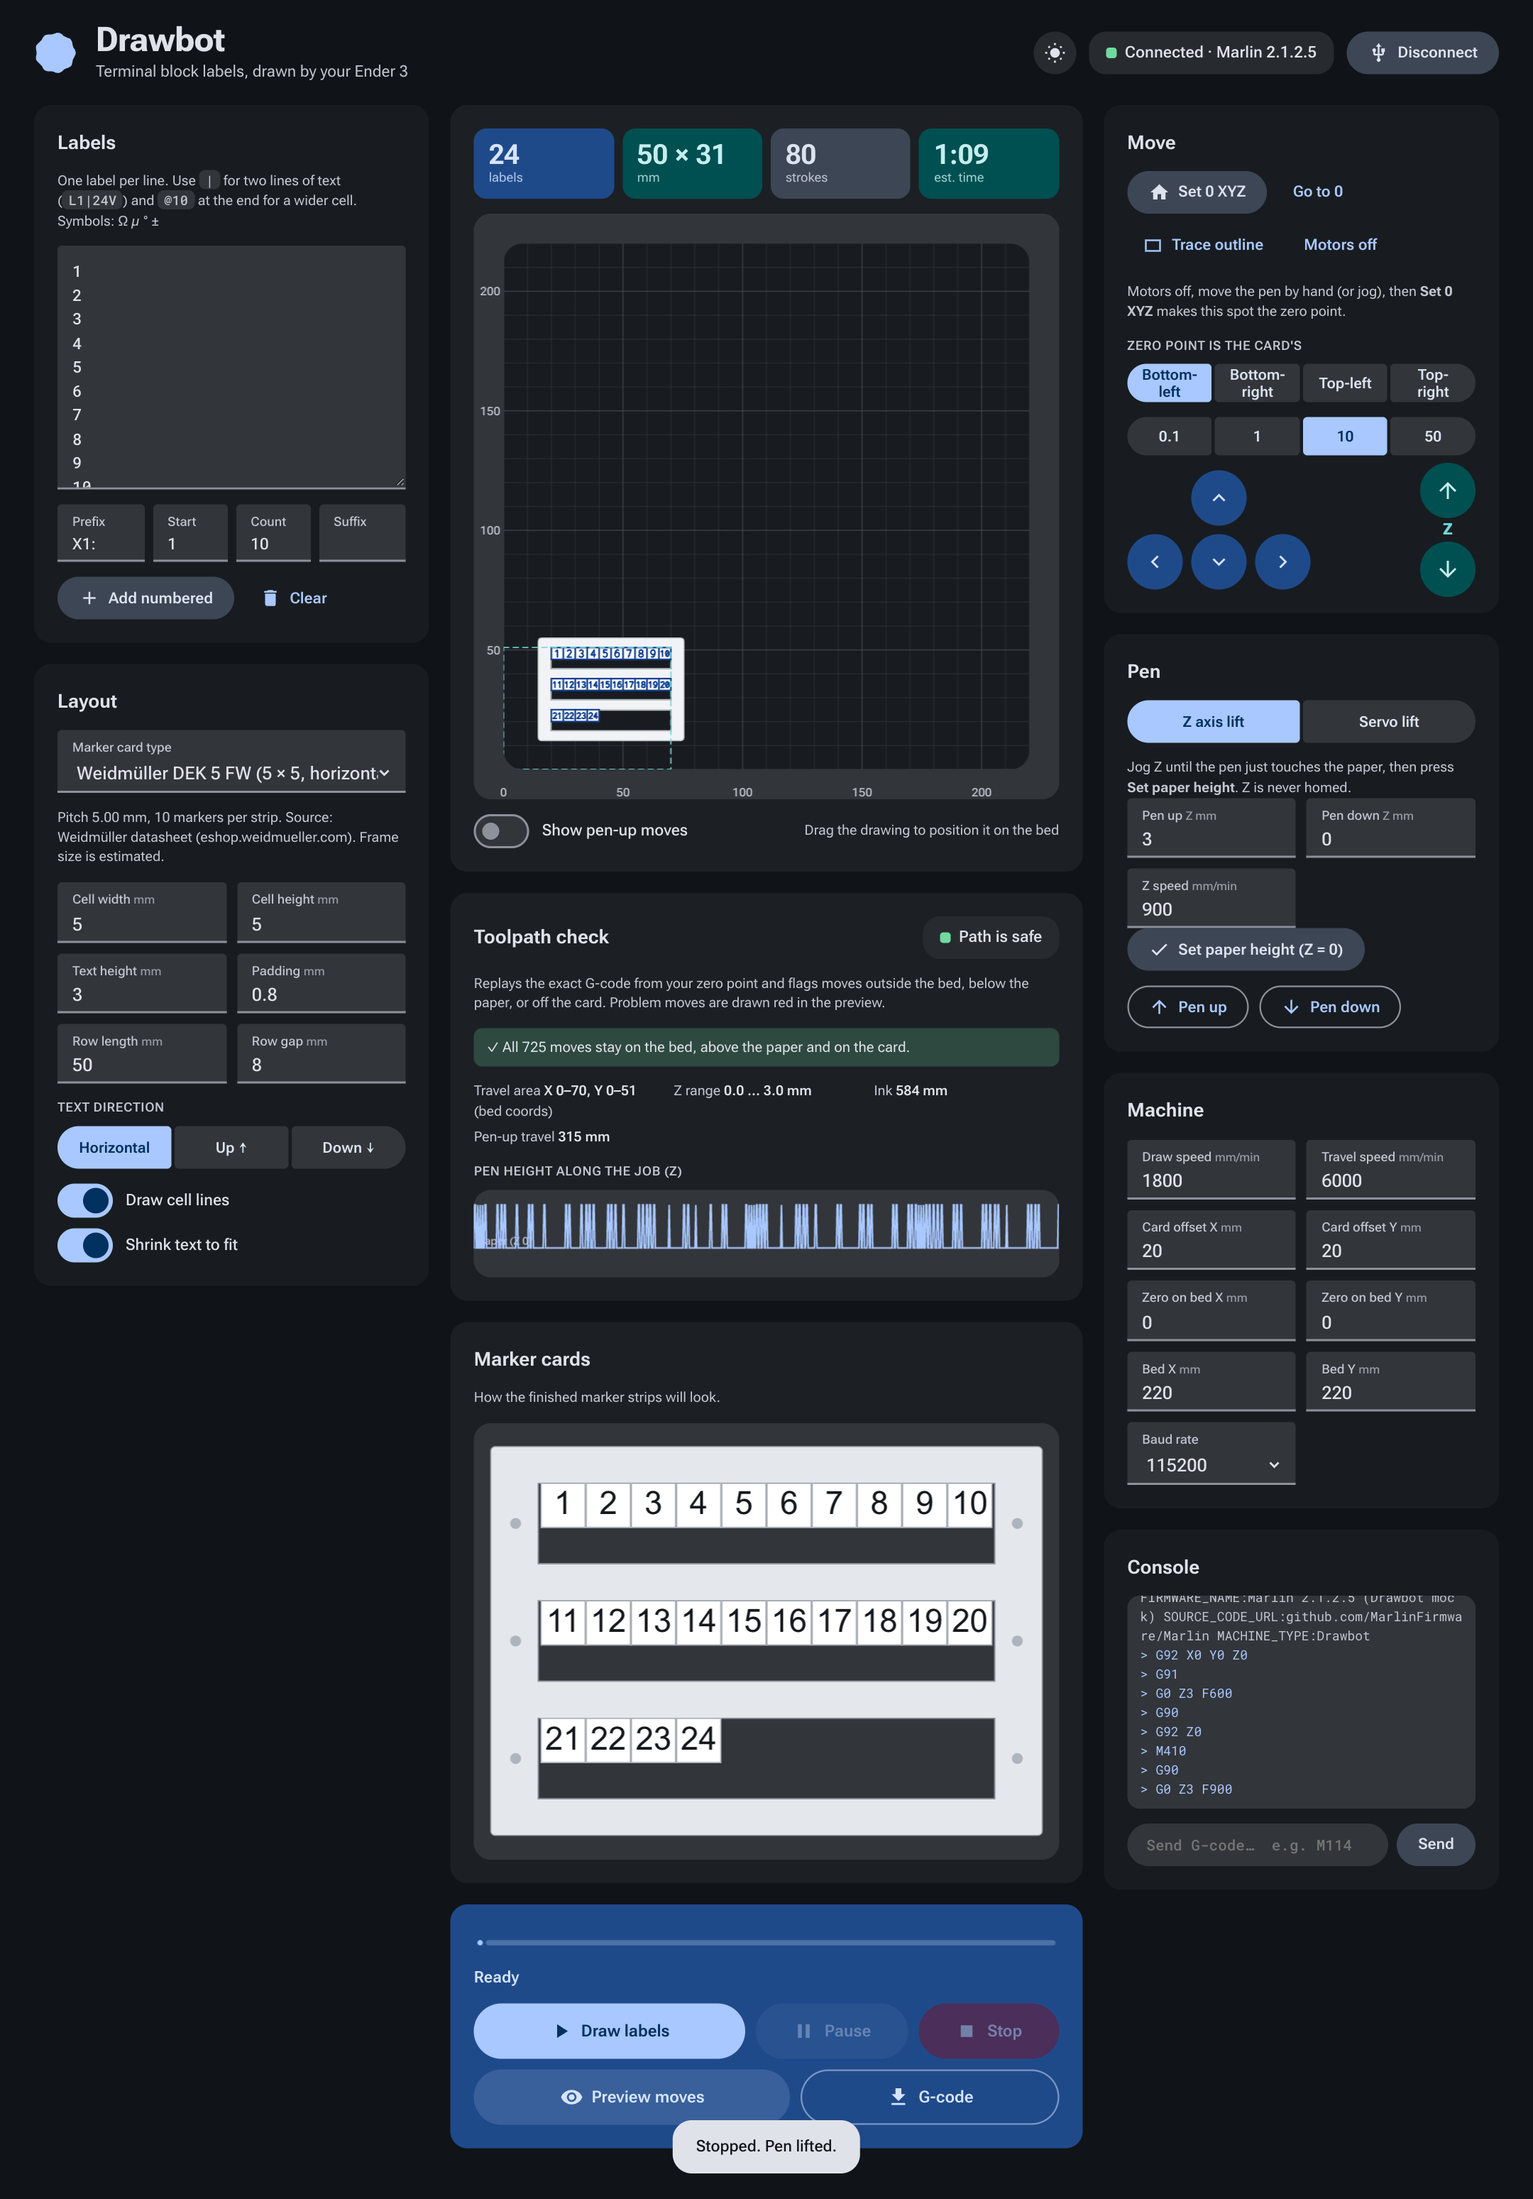
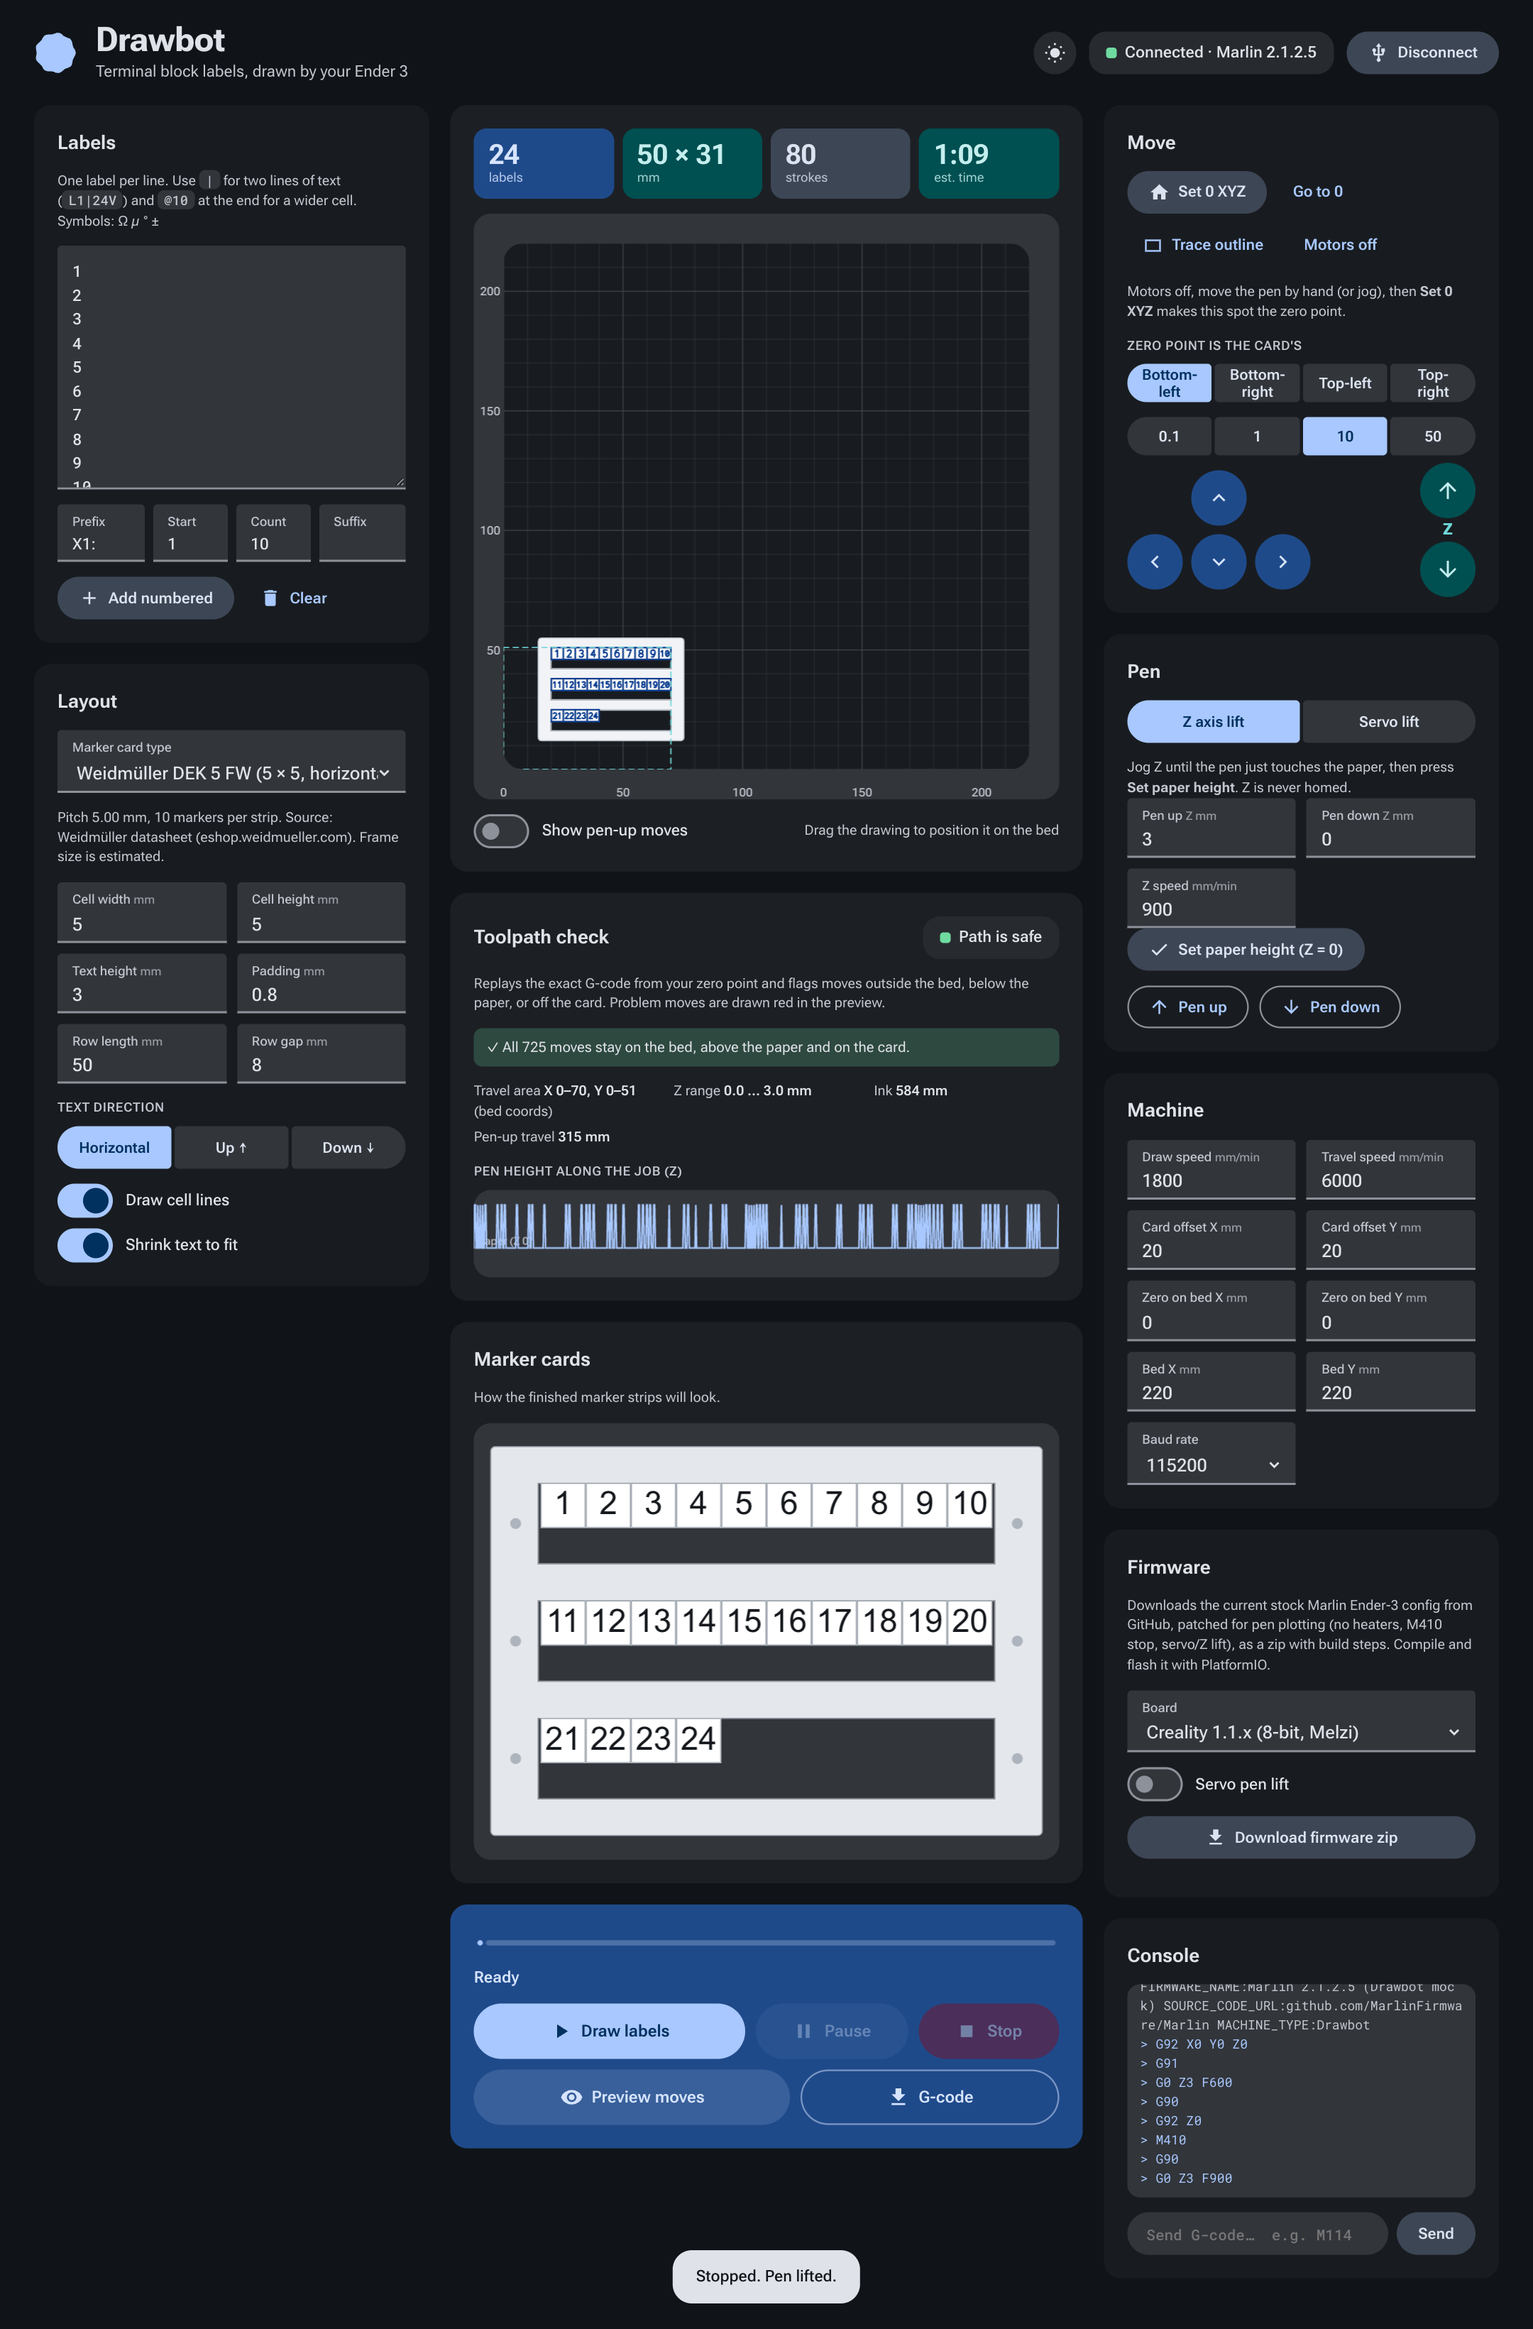
Firmware zip download (fetches current Marlin config, patches in browser), Vercel config

diff --git a/web/firmware.js b/web/firmware.js
@@ -1,0 +1,84 @@
+/* Firmware download: fetches the current stock Marlin Ender-3 config from GitHub, applies the Drawbot patch
+   (same changes as firmware/apply_drawbot.py) and hands back a zip. Nothing is uploaded anywhere. */
+(function (g) {
+  const BASE = 'https://raw.githubusercontent.com/MarlinFirmware/Configurations/bugfix-2.1.x/config/examples/Creality/Ender-3/';
+  const BOARDS = {
+    CrealityV1: 'Creality 1.1.x (8-bit, Melzi)',
+    CrealityV422: 'Creality 4.2.2 (32-bit)',
+    CrealityV427: 'Creality 4.2.7 (32-bit)',
+  };
+
+  function patch(cfg, adv, { servo = true } = {}) {
+    const report = [];
+    const sub = (text, re, repl, name) => { const n = re.test(text); report.push((n ? 'ok   ' : 'MISS ') + name); return n ? text.replace(re, repl) : text; };
+    let c = cfg, a = adv;
+    c = sub(c, /^#define TEMP_SENSOR_0 .*$/m, '#define TEMP_SENSOR_0 0 // Drawbot: no hotend', 'TEMP_SENSOR_0 -> 0');
+    c = sub(c, /^#define TEMP_SENSOR_BED .*$/m, '#define TEMP_SENSOR_BED 0 // Drawbot: no heated bed', 'TEMP_SENSOR_BED -> 0');
+    c = sub(c, /^#define THERMAL_PROTECTION_HOTENDS.*$/m, '//#define THERMAL_PROTECTION_HOTENDS // Drawbot', 'THERMAL_PROTECTION_HOTENDS off');
+    c = sub(c, /^#define THERMAL_PROTECTION_BED.*$/m, '//#define THERMAL_PROTECTION_BED // Drawbot', 'THERMAL_PROTECTION_BED off');
+    c = sub(c, /^#define PREVENT_COLD_EXTRUSION/m, '//#define PREVENT_COLD_EXTRUSION // Drawbot', 'PREVENT_COLD_EXTRUSION off');
+    c = sub(c, /^#define CUSTOM_MACHINE_NAME .*$/m, '#define CUSTOM_MACHINE_NAME "Drawbot"', 'machine name');
+    c = sub(c, /^#define DEFAULT_MAX_FEEDRATE\s+\{.*\}/m, '#define DEFAULT_MAX_FEEDRATE          { 500, 500, 20, 25 }', 'max feedrate Z 5 -> 20 mm/s');
+    c = sub(c, /^#define DEFAULT_MAX_ACCELERATION\s+\{.*\}/m, '#define DEFAULT_MAX_ACCELERATION      { 800, 800, 200, 5000 }', 'max accel XY 800, Z 200');
+    c = sub(c, /^#define DEFAULT_ACCELERATION\s+\d+.*$/m, '#define DEFAULT_ACCELERATION          800    // X, Y, Z acceleration for printing moves', 'default accel');
+    c = sub(c, /^#define DEFAULT_TRAVEL_ACCELERATION\s+\d+.*$/m, '#define DEFAULT_TRAVEL_ACCELERATION   1200   // X, Y, Z acceleration for travel (non printing) moves', 'travel accel');
+    c = sub(c, /^\s*#define MIN_SOFTWARE_ENDSTOP_Z\b.*$/m, '  //#define MIN_SOFTWARE_ENDSTOP_Z // Drawbot: pen height set with G92 Z0', 'Z min soft endstop off');
+    if (servo) {
+      c = sub(c, /^\/\/#define NUM_SERVOS 3.*$/m, '#define NUM_SERVOS 1 // Drawbot: pen-lift servo is M280 P0', 'NUM_SERVOS 1');
+      c = sub(c, /^#define SERVO_DELAY \{.*\}/m, '#define SERVO_DELAY { 150 }', 'SERVO_DELAY 150');
+      const board = c.match(/^\s*#define MOTHERBOARD (\w+)/m);
+      if (board && board[1] === 'BOARD_MELZI_CREALITY' && !c.includes('SERVO0_PIN')) {
+        c = c.replace('#define NUM_SERVOS 1', '#define SERVO0_PIN 27 // Drawbot: BLTouch header signal pin on 1.1.x board\n#define NUM_SERVOS 1');
+        report.push('ok   SERVO0_PIN 27 (1.1.x board)');
+      }
+    }
+    a = sub(a, /^\/\/#define EMERGENCY_PARSER/m, '#define EMERGENCY_PARSER // Drawbot: M410 quick-stop', 'EMERGENCY_PARSER on');
+    return { cfg: c, adv: a, report };
+  }
+
+  // ---- minimal store-only zip ----
+  const crcT = (() => { const t = []; for (let n = 0; n < 256; n++) { let c = n; for (let k = 0; k < 8; k++) c = c & 1 ? 0xEDB88320 ^ (c >>> 1) : c >>> 1; t[n] = c >>> 0; } return t; })();
+  const crc32 = u8 => { let c = 0xFFFFFFFF; for (let i = 0; i < u8.length; i++) c = crcT[(c ^ u8[i]) & 255] ^ (c >>> 8); return (c ^ 0xFFFFFFFF) >>> 0; };
+  function zip(files) {                           // files: [{name, data: string}]
+    const enc = new TextEncoder(), parts = [], central = []; let off = 0;
+    const d = new Date(), dt = ((d.getFullYear() - 1980) << 9 | (d.getMonth() + 1) << 5 | d.getDate()) & 0xFFFF, tm = (d.getHours() << 11 | d.getMinutes() << 5 | d.getSeconds() >> 1) & 0xFFFF;
+    for (const f of files) {
+      const name = enc.encode(f.name), data = enc.encode(f.data), crc = crc32(data);
+      const lh = new DataView(new ArrayBuffer(30)); lh.setUint32(0, 0x04034b50, true); lh.setUint16(4, 20, true); lh.setUint16(6, 0x0800, true); lh.setUint16(8, 0, true);
+      lh.setUint16(10, tm, true); lh.setUint16(12, dt, true); lh.setUint32(14, crc, true); lh.setUint32(18, data.length, true); lh.setUint32(22, data.length, true); lh.setUint16(26, name.length, true);
+      parts.push(new Uint8Array(lh.buffer), name, data);
+      const ch = new DataView(new ArrayBuffer(46)); ch.setUint32(0, 0x02014b50, true); ch.setUint16(4, 20, true); ch.setUint16(6, 20, true); ch.setUint16(8, 0x0800, true);
+      ch.setUint16(12, tm, true); ch.setUint16(14, dt, true); ch.setUint32(16, crc, true); ch.setUint32(20, data.length, true); ch.setUint32(24, data.length, true); ch.setUint16(28, name.length, true); ch.setUint32(42, off, true);
+      central.push(new Uint8Array(ch.buffer), name);
+      off += 30 + name.length + data.length;
+    }
+    const csize = central.reduce((s, p) => s + p.length, 0);
+    const end = new DataView(new ArrayBuffer(22)); end.setUint32(0, 0x06054b50, true); end.setUint16(8, files.length, true); end.setUint16(10, files.length, true); end.setUint32(12, csize, true); end.setUint32(16, off, true);
+    return new Blob([...parts, ...central, new Uint8Array(end.buffer)], { type: 'application/zip' });
+  }
+
+  async function fetchText(url) { const r = await fetch(url, { cache: 'no-cache' }); if (!r.ok) throw new Error(`GitHub returned ${r.status} for ${url.split('/').slice(-2).join('/')}`); return r.text(); }
+
+  /** Downloads the stock configs for `board`, patches them, returns {blob, report, filename}. */
+  async function build(board, servo) {
+    const [c, a] = await Promise.all([fetchText(BASE + board + '/Configuration.h'), fetchText(BASE + board + '/Configuration_adv.h')]);
+    const p = patch(c, a, { servo });
+    const readme = `Drawbot firmware (${BOARDS[board] || board}${servo ? ', servo pen lift' : ', Z-axis pen lift'})
+Generated ${new Date().toISOString().slice(0, 10)} from the current MarlinFirmware/Configurations bugfix-2.1.x stock Ender-3 config.
+
+Changes made (also see https://github.com/douggreenak/drawbot):
+${p.report.map(l => '  ' + l).join('\n')}
+
+To build and flash:
+ 1. Get Marlin 2.1.x: https://github.com/MarlinFirmware/Marlin (branch bugfix-2.1.x)
+ 2. Copy Marlin/Configuration.h and Marlin/Configuration_adv.h from this zip over the ones in Marlin/Marlin/
+ 3. Open the Marlin folder in VS Code with PlatformIO, pick the env for your board (melzi for 1.1.x, STM32F103RET6_creality for 4.2.x), Build, then Upload (or copy the .bin to an SD card for 4.2.x boards).
+ 4. Not compiled or tested on hardware by this tool - check the build output.
+ 5. On 4.2.x boards, if the build complains about a missing sensor, set TEMP_SENSOR_0 to 998.
+`;
+    const blob = zip([{ name: 'Marlin/Configuration.h', data: p.cfg }, { name: 'Marlin/Configuration_adv.h', data: p.adv }, { name: 'README.txt', data: readme }]);
+    return { blob, report: p.report, filename: `drawbot-firmware-${board}${servo ? '-servo' : ''}.zip` };
+  }
+
+  g.DBFirmware = { BOARDS, patch, zip, build };
+})(typeof window !== 'undefined' ? window : globalThis);

diff --git a/web/app.js b/web/app.js
@@ -554,6 +554,19 @@
   ['cellW', 'cellH'].forEach(id => $(id).addEventListener('input', () => { $('cardType').value = 'custom'; $('cardNote').textContent = 'Enter your own cell size below.'; }));
   Object.keys(SEGS).forEach(id => setSeg(id, segVal(id)));
   relayout(); kickWave();
+  // ---------------------------------------------------------------- firmware download
+  $('fwBoard').innerHTML = Object.entries(window.DBFirmware.BOARDS).map(([k, v]) => `<option value="${k}">${v}</option>`).join('');
+  $('btnFirmware').onclick = async () => {
+    const btn = $('btnFirmware'); btn.disabled = true; $('fwNote').textContent = 'Fetching the latest config from GitHub…';
+    try {
+      const r = await window.DBFirmware.build($('fwBoard').value, $('fwServo').checked);
+      const a = document.createElement('a'); a.href = URL.createObjectURL(r.blob); a.download = r.filename; a.click();
+      const miss = r.report.filter(l => l.startsWith('MISS'));
+      $('fwNote').textContent = miss.length ? `Downloaded, but ${miss.length} setting(s) were not found in the current Marlin config: ${miss.join('; ')}. Check them by hand.` : `Downloaded ${r.filename}. All ${r.report.length} changes applied.`;
+    } catch (e) { $('fwNote').textContent = 'Could not download: ' + e.message; }
+    btn.disabled = false;
+  };
+
   window.DBApp = { state, settings, printer };
   log('sys', 'Ready. Connect over USB, home X Y, set the paper height, then draw.');
 })();

diff --git a/tests/e2e.js b/tests/e2e.js
@@ -255,6 +255,18 @@ async function runDataset(browser, ds, i) {
   check('Toolpath', 'top-right anchor with small offset leaves the bed (negative X/Y relative to zero is fine, bed edge is not)', /outside the bed|Path is safe/.test(await text(page, '#pathChipText') + await text(page, '#pathIssues')));
   await page.close();
 
+  // Firmware zip (fetches stock Marlin config from GitHub and patches it in the browser)
+  page = await setup(browser);
+  const fw = await page.evaluate(async () => {
+    try {
+      const r = await window.DBFirmware.build('CrealityV422', true);
+      const head = new Uint8Array(await r.blob.slice(0, 4).arrayBuffer());
+      return { sig: Array.from(head).join(','), size: r.blob.size, miss: r.report.filter(l => l.startsWith('MISS')).length, name: r.filename };
+    } catch (e) { return { err: e.message }; }
+  });
+  check('Firmware', 'builds a patched zip from the current Marlin config on GitHub', !fw.err && fw.sig === '80,75,3,4' && fw.size > 100000 && fw.miss === 0, JSON.stringify(fw));
+  await page.close();
+
   // Card type presets
   page = await setup(browser);
   await page.select('#cardType', 'zb5'); await sleep(200);

diff --git a/web/index.html b/web/index.html
@@ -214,6 +214,15 @@
       </div>
     </article>
 
+    <article class="card">
+      <h2>Firmware</h2>
+      <p class="hint">Downloads the current stock Marlin Ender-3 config from GitHub, patched for pen plotting (no heaters, M410 stop, servo/Z lift), as a zip with build steps. Compile and flash it with PlatformIO.</p>
+      <label class="field"><span>Board</span><select id="fwBoard"></select></label>
+      <div class="switches"><label class="switch"><input type="checkbox" id="fwServo"><i></i><span>Servo pen lift</span></label></div>
+      <button class="btn tonal" id="btnFirmware"><svg><use href="#i-download"/></svg><span>Download firmware zip</span></button>
+      <p class="hint" id="fwNote"></p>
+    </article>
+
     <article class="card console">
       <h2>Console</h2>
       <pre id="log" aria-live="polite"></pre>
@@ -230,6 +239,7 @@
 <div class="snack" id="snack" role="status"></div>
 
 <script src="font.js"></script>
+<script src="firmware.js"></script>
 <script src="layout.js"></script>
 <script src="gcode.js"></script>
 <script src="toolpath.js"></script>

diff --git a/docs/TEST_RESULTS.md b/docs/TEST_RESULTS.md
@@ -2,7 +2,7 @@
 
 Generated by `tests/e2e.js` (headless Chrome → real UI → simulated Marlin, `?mock` demo mode).
 
-**79/79 checks passed.**
+**80/80 checks passed.**
 
 ## UI
 
@@ -70,7 +70,7 @@ Generated by `tests/e2e.js` (headless Chrome → real UI → simulated Marlin, `
 | ✅ | layout produced every label | (40/40 labels, 133 strokes, 1294 mm of ink) |
 | ✅ | design fits on the bed | (100×28 mm at 20,20) |
 | ✅ | connected and detected Marlin | ("Connected · Marlin 2.1.2.5") |
-| ✅ | every G-code line was acknowledged | (2110/2110 commands in 0.2s) |
+| ✅ | every G-code line was acknowledged | (2110/2110 commands in 0.3s) |
 | ✅ | never overflowed Marlin's 128-byte RX buffer | (peak 78 bytes, 0 overflows) |
 | ✅ | ink length matches design | (1293.7 mm drawn vs 1293.6 mm designed) |
 | ✅ | one pen-down per stroke | (133/133) |
@@ -99,7 +99,7 @@ Generated by `tests/e2e.js` (headless Chrome → real UI → simulated Marlin, `
 
 | | Check | Detail |
 |---|---|---|
-| ✅ | no commands run while paused | (272 → 272) |
+| ✅ | no commands run while paused | (273 → 273) |
 | ✅ | UI reports Done only after the last command executed |  |
 | ✅ | job completes after resume with correct ink | (583.6 vs 583.5 mm) |
 
@@ -147,6 +147,12 @@ Generated by `tests/e2e.js` (headless Chrome → real UI → simulated Marlin, `
 | ✅ | negative pen-down Z is flagged as below the paper |  |
 | ✅ | back to safe values clears the problems |  |
 | ✅ | top-right anchor with small offset leaves the bed (negative X/Y relative to zero is fine, bed edge is not) |  |
+
+## Firmware
+
+| | Check | Detail |
+|---|---|---|
+| ✅ | builds a patched zip from the current Marlin config on GitHub | {"sig":"80,75,3,4","size":373440,"miss":0,"name":"drawbot-firmware-CrealityV422-servo.zip"} |
 
 ## Card types
 

diff --git a/README.md b/README.md
@@ -30,7 +30,10 @@ each dataset is checked for: all lines acknowledged, no buffer overflow, ink len
 Results with images of what the simulated pen drew: **[docs/TEST_RESULTS.md](docs/TEST_RESULTS.md)** (67/67 passing).
 This validates the software and the G-code protocol handling, not real hardware or Marlin's actual motion.
 
-## 1. Run the app
+## 0. Hosted
+The `web/` folder is a static site (see `vercel.json`); on Vercel it runs over https, which Web Serial needs, so there is no local server to start. The **Firmware** card downloads the current stock Marlin config from GitHub, patched in the browser.
+
+## 1. Run the app locally
 ```
 cd web && python3 -m http.server 8765      # then open http://localhost:8765
 ```
